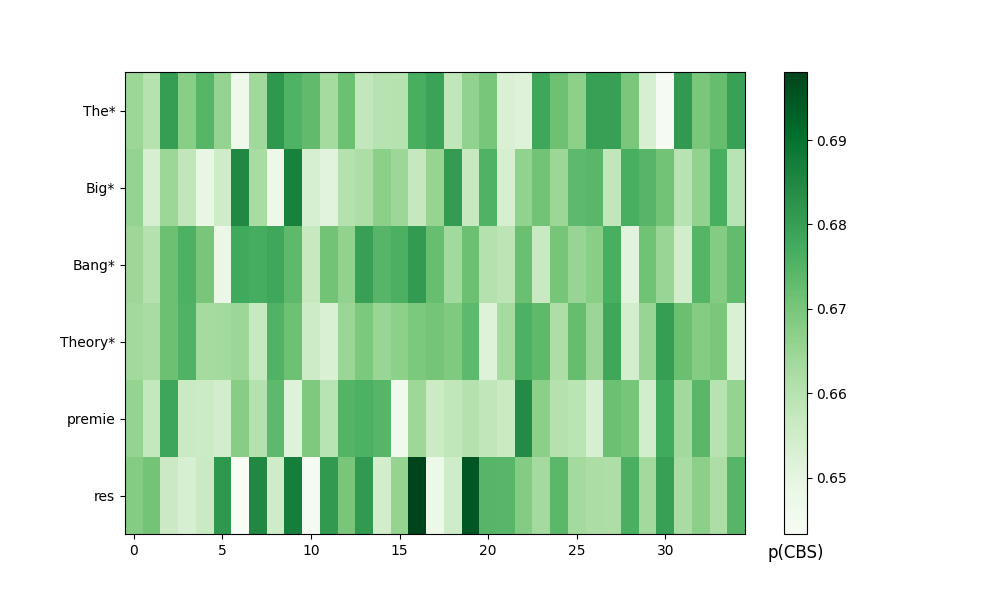
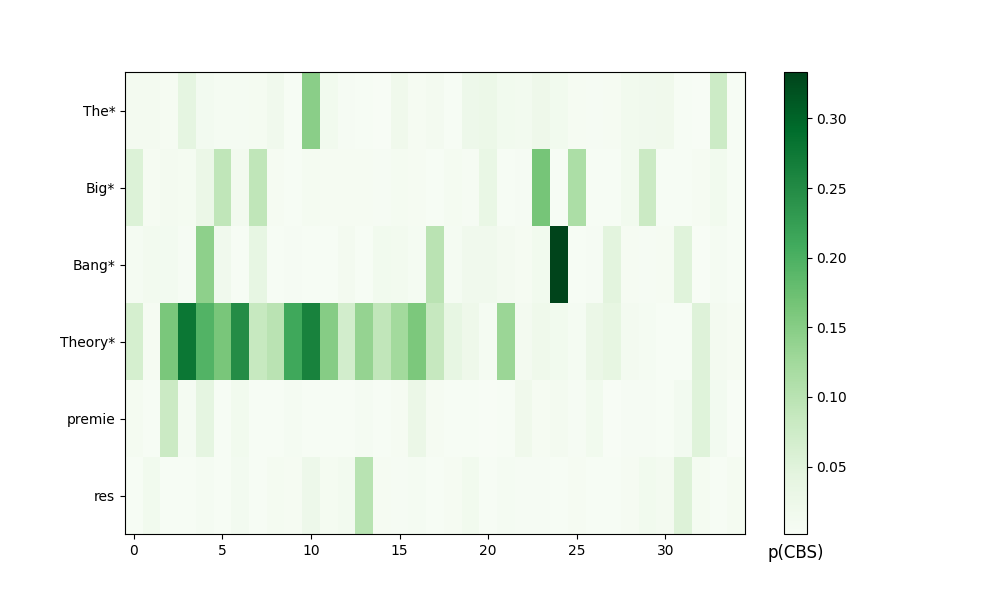
Fixed issues and plotted large mlp and hidden

diff --git a/ROME.py b/ROME.py
@@ -24,7 +24,7 @@ model.eval()
 hooks = FullModelHooks(model)
 print(hooks)
 
-base_text = "The Big Bang Theory airs on"
+base_text = "The Big Bang Theory premieres on"
 encoded_input = tokenizer(base_text, return_tensors='pt').to(device)
 num_tokens = encoded_input['input_ids'].shape[1]
 print(f"{encoded_input['input_ids'].shape = }") 
@@ -45,27 +45,27 @@ output = model(**encoded_input)
 # save outputs of model on correct text -> very expensive computation, maybe iteratively save to disk instead?
 correct_hidden = {key: hook.features[0] for key, hook in hooks.items() if key.startswith('transformer->h->')}
 
-hooks.add_custom_hook('transformer->wte', 'embedding_noise', additive_noise(indices=":4", std=0.1))
+hooks.add_custom_hook('transformer->wte', 'embedding_noise', additive_noise(indices=":4,:", std=0.1))
 
 results = dict(mlp=dict(), attn=dict(), hidden=dict())
 
 # mlp
-# for center in range(num_heads):
-#     results['mlp'][center] = dict()
-#     for pos in range(num_tokens):
-#         new_keys = []
-#         for layer in range(max(0,center-5), min(num_heads, center+5)): #TODO currently removing and recreating hooks too often -> make as sliding window
-#             old_key = f'transformer->h->{layer}->mlp'
-#             new_key = f'patch_h{layer}_mlp_pos{pos}'
-#             new_keys.append(new_key)
-#             hooks.add_custom_hook(old_key, new_key, hidden_patch_hook_fn(pos, correct_hidden[old_key][pos]))
-#         output = model(**encoded_input)
+for center in range(num_heads):
+    results['mlp'][center] = dict()
+    for pos in range(num_tokens):
+        new_keys = []
+        for layer in range(max(0,center-5), min(num_heads, center+5)): #TODO currently removing and recreating hooks too often -> make as sliding window
+            old_key = f'transformer->h->{layer}->mlp'
+            new_key = f'patch_h{layer}_mlp_pos{pos}'
+            new_keys.append(new_key)
+            hooks.add_custom_hook(old_key, new_key, hidden_patch_hook_fn(pos, correct_hidden[old_key][pos]))
+        output = model(**encoded_input)
 
-#         prob = torch.softmax(output["logits"][0,-1,:], 0)[correct_id].item()
-#         results['mlp'][center][pos] = prob
+        prob = torch.softmax(output["logits"][0,-1,:], 0)[correct_id].item()
+        results['mlp'][center][pos] = prob
         
-#         for key in new_keys:
-#             hooks.remove_hook(key)
+        for key in new_keys:
+            hooks.remove_hook(key)
 
 #TODO bug fixing in additive noise and hidden patch
 

diff --git a/plot_CBS.py b/plot_CBS.py
@@ -15,9 +15,9 @@ with open(f'./rome_results_{model_size}.json', 'r') as f:
 #########
 
 
-prob_array = np.zeros((6,num_heads))
+prob_array = np.zeros((7,num_heads))
 
-for num_heads, pos in product(range(num_heads), range(6)):
+for num_heads, pos in product(range(num_heads), range(7)):
     prob_array[pos, num_heads] = data['hidden'][str(num_heads)][str(pos)]
 
 plt.figure(figsize=(10,6))
@@ -34,18 +34,18 @@ plt.savefig(f'./{model_size}_hidden.png')
 
 #########
 
-# prob_array = np.zeros((6,num_heads))
+prob_array = np.zeros((6,num_heads))
 
-# for num_heads, pos in product(range(num_heads), range(6)):
-#     prob_array[pos, num_heads] = data['mlp'][str(num_heads)][str(pos)]
+for num_heads, pos in product(range(num_heads), range(6)):
+    prob_array[pos, num_heads] = data['mlp'][str(num_heads)][str(pos)]
 
-# plt.figure(figsize=(10,6))
-# plt.xticks(np.arange(0,num_heads,5)+0.5, np.arange(0,num_heads,5))
-# plt.yticks()
-# plt.yticks(np.arange(0,7)+0.5, ["The*", "Big*", "Bang*", "Theory*", "premie", "res", "on"])
-# # im = plt.imshow(prob_array, cmap="Purples")
-# im = plt.pcolormesh(prob_array, cmap="Greens")
-# plt.gca().invert_yaxis()
-# cbar = plt.colorbar(im)
-# cbar.ax.set_title("p(CBS)", y=-0.07)
-# plt.savefig(f'./{model_size}_mlp.png')
+plt.figure(figsize=(10,6))
+plt.xticks(np.arange(0,num_heads,5)+0.5, np.arange(0,num_heads,5))
+plt.yticks()
+plt.yticks(np.arange(0,7)+0.5, ["The*", "Big*", "Bang*", "Theory*", "premie", "res", "on"])
+# im = plt.imshow(prob_array, cmap="Purples")
+im = plt.pcolormesh(prob_array, cmap="Greens")
+plt.gca().invert_yaxis()
+cbar = plt.colorbar(im)
+cbar.ax.set_title("p(CBS)", y=-0.07)
+plt.savefig(f'./{model_size}_mlp.png')

diff --git a/hooks.py b/hooks.py
@@ -206,9 +206,15 @@ def replace_activation(indices: str, replacement_tensor: torch.Tensor) -> Callab
     """
     slice_ = create_slice(indices, replacement_tensor.shape)
     def func(output):
-        diff = len(output[slice_].shape) - len(replacement_tensor.shape) # add dummy dimensions if shape mismatch
-        output[slice_] = replacement_tensor.reshape(*([1]*diff), *replacement_tensor.shape)
+        # add dummy dimensions if shape mismatch
+        diff = len(output[slice_].shape) - len(replacement_tensor.shape)
+        rep = replacement_tensor
+        for i in range(diff):
+            rep = rep[None]
+        # replace part of tensor    
+        output[slice_] = rep
         return output
+
     return func
 
 def create_slice(indices, target_shape=None):
